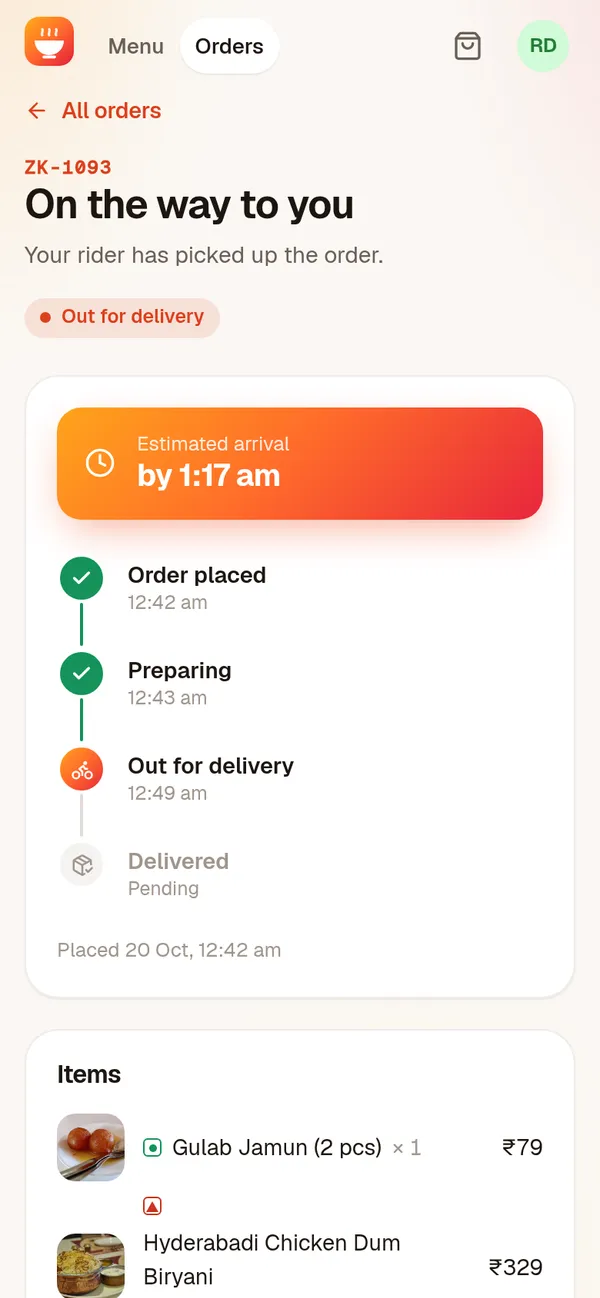
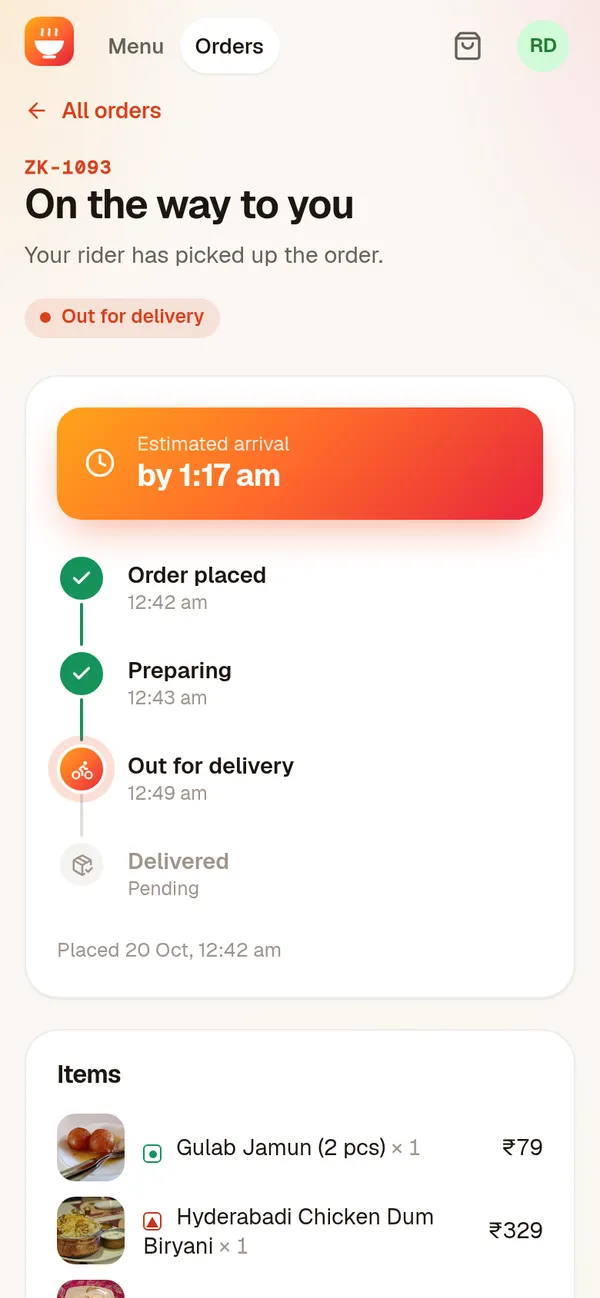
Write the Zaika 2.0 README with screenshots
Hero and gallery screenshots of the storefront, checkout, tracking,
dashboard, kitchen board, menu manager, customers, settings, phone
layouts and dark mode (WebP, in docs/screenshots). Covers what's new in
2.0, features, tech stack, project structure, setup with Neon,
configurable providers (uploads, Stripe, demo autopilot), demo data,
security, Vercel deployment and photo credits.

diff --git a/README.md b/README.md
@@ -1,28 +1,199 @@
-# Zaika
+# Zaika 2.0
 
-**Zaika** (ज़ायका, "taste") is a full-stack food delivery app: a customer storefront, a restaurant admin panel and a REST API on Neon Postgres.
+**Zaika** (ज़ायका, "taste") is a full-stack Indian food delivery app: a light, modern storefront with live order tracking, and a restaurant admin panel with a real-time kitchen board, all running on one Express API and Neon Postgres.
 
-> Work in progress: Zaika 2.0 is being rebuilt as a single React app with a new design. The API is done; the screens follow.
+![Zaika storefront](docs/screenshots/storefront.webp)
 
-## Stack
+| Kitchen dashboard | Live kitchen board |
+|---|---|
+| ![Dashboard](docs/screenshots/dashboard.webp) | ![Kitchen board](docs/screenshots/kitchen-board.webp) |
+
+## What's new in 2.0
+
+- **One app, one command.** The separate customer site, admin site and API are now a single React 19 + Express 5 project. `npm run dev` serves everything on one port; Vercel serves it as a static site plus one serverless function.
+- **Neon Postgres instead of MongoDB.** A cloud database you never have to start, with versioned SQL migrations.
+- **A brand-new design.** Light-first 2026 look with Geist type, a saffron-to-chilli gradient, frosted glass and a warm aurora. Dark mode is an optional toggle.
+- **Live order tracking.** Every status change is timestamped and the order page updates itself.
+- **A real restaurant console.** Dashboard with KPIs and charts, a Kanban kitchen board with chimes for new orders, menu, customers and store settings.
+- **Security fixes.** The original API let anyone add or delete dishes and change any order, trusted prices sent by the browser, and marked Stripe orders paid from a URL flag. All fixed (see [Security](#security)).
+- **Demo data** with 36 Indian dishes and real photos, plus a read-only demo admin for portfolio visitors.
+
+## Features
+
+### For customers
+- Menu grouped by category (biryani, North and South Indian, street food, rolls, Indo-Chinese, desserts, drinks) with search (press `/`), a veg-only switch and sorting
+- Indian veg / non-veg marks on every dish, **Bestseller** badges calculated from real orders in the last 30 days, sold-out states
+- Dish quick-view, quantity steppers, and a floating cart bar with a free-delivery nudge
+- Guest cart that is kept and merged into your account when you sign in
+- Checkout with a saved address, inline validation (phone, 6-digit PIN code), a note for the kitchen, and cash on delivery or card (Stripe, when configured)
+- Order page with estimated arrival, a step-by-step timeline with real times, and automatic refresh
+- Order history with cancel (until the kitchen starts cooking) and one-tap reorder
+- Account page for profile, default address and theme
+
+### For the restaurant (`/admin`)
+- **Dashboard:** revenue, orders, average order value and active orders, compared with the previous 24 hours / 7 / 30 days; a 14-day revenue chart with tooltips; live orders; top dishes; orders by status
+- **Kitchen board:** New → In the kitchen → On the way, one-click advance, wait-time warnings, a chime and toast for every new order, searchable history
+- **Order drawer:** customer details with tap-to-call, address, note, bill, payment state and timeline; cancel with confirmation
+- **Menu manager:** add and edit dishes with drag-and-drop photo upload and a live card preview, instant sold-out switch, delete with confirmation
+- **Customers:** lifetime spend ranking, repeat-customer rate, top customer
+- **Store settings:** open or close the kitchen (closes checkout and shows a banner), delivery fee, free-delivery threshold and delivery time
+
+### Under the hood
+- Skeleton loaders, empty and error states, toasts, disabled and loading buttons everywhere
+- Responsive from 390px phones to wide desktops, keyboard focus styles, aria labels, `prefers-reduced-motion`
+- Optimistic cart and stock toggles with rollback; late server replies can't overwrite newer clicks
+- Database connection retries for flaky networks
+
+## Screenshots
+
+| | |
+|---|---|
+| ![Sign in](docs/screenshots/login.webp) | ![Menu](docs/screenshots/menu.webp) |
+| ![Dish quick view](docs/screenshots/dish.webp) | ![Cart](docs/screenshots/cart.webp) |
+| ![My orders](docs/screenshots/orders.webp) | ![Order drawer](docs/screenshots/order-drawer.webp) |
+| ![Menu manager](docs/screenshots/menu-manager.webp) | ![Dish editor](docs/screenshots/dish-editor.webp) |
+| ![Customers](docs/screenshots/customers.webp) | ![Store settings](docs/screenshots/settings.webp) |
+
+| Phone | Order tracking | Dark mode |
+|---|---|---|
+| ![Mobile storefront](docs/screenshots/mobile-home.webp) | ![Mobile tracking](docs/screenshots/mobile-tracking.webp) | ![Dark dashboard](docs/screenshots/dark-dashboard.webp) |
+
+## Tech stack
 
 | Layer | Tech |
 |---|---|
+| Frontend | React 19, React Router 7, Vite 8, lucide-react icons, Sonner toasts |
+| Styling | Plain CSS with design tokens (no UI framework), Geist font |
 | API | Node.js, Express 5, JWT auth, bcryptjs |
-| Database | Neon serverless Postgres, plain SQL migrations |
-| Payments | Cash on delivery, optional Stripe Checkout |
+| Database | Neon serverless Postgres (`@neondatabase/serverless`), SQL migrations |
+| Images | Cloudinary unsigned uploads or image links |
+| Payments | Cash on delivery; optional Stripe Checkout |
+| Hosting | Vercel (static site + one serverless function) |
+
+## Project structure
+
+```
+zaika/
+├── api/index.js            # Vercel function: serves the Express app
+├── server/
+│   ├── app.js              # Express app and error handling
+│   ├── db.js               # Neon client, connection retries
+│   ├── migrate.js          # Runs migrations/*.sql in order
+│   ├── migrations/         # 001_init.sql: users, foods, carts, orders, events, settings
+│   ├── lib/                # auth & roles, validation, orders, store settings, demo autopilot
+│   └── routes/             # auth, foods, cart, orders, admin, settings
+├── shared/menu.js          # Categories and order statuses (used by API and UI)
+├── scripts/
+│   ├── migrate.mjs         # npm run migrate
+│   ├── seed.mjs            # npm run seed
+│   └── seed-data.mjs       # The demo menu
+├── public/dishes/          # Demo dish photos (WebP) + CREDITS.md
+├── src/
+│   ├── index.css           # Design tokens and primitives
+│   ├── lib/                # api client, theme, formatting, uploads, categories
+│   ├── context/            # AuthContext, StoreContext (menu, settings, cart)
+│   ├── components/         # ui/ (Logo, Avatar, Modal, Drawer, …), food/, orders/, layout/
+│   └── pages/              # Home, Auth, Cart, Checkout, Orders, Account, Admin/*
+├── vite.config.js          # Mounts the API inside the dev server
+└── vercel.json             # /api/* → function, everything else → SPA
+```
 
 ## Getting started
+
+### Prerequisites
+- Node.js 20.19 or newer
+- A free [Neon](https://neon.tech) Postgres database (no credit card). Nothing runs locally besides Node.
+
+### 1. Clone and install
 
 ```bash
 git clone https://github.com/Yusuf-Hussain25/zaika.git
 cd zaika
 npm install
-cp .env.example .env      # add DATABASE_URL and JWT_SECRET
-npm run migrate           # creates the tables
-npm run api               # http://localhost:4000/api/health
 ```
+
+### 2. Configure `.env`
+
+```bash
+cp .env.example .env
+```
+
+| Variable | Where to find it |
+|---|---|
+| `DATABASE_URL` | Neon console → your project → **Connect** → copy the pooled `postgresql://…` string |
+| `JWT_SECRET` | Any long random string: `node -e "console.log(require('crypto').randomBytes(32).toString('hex'))"` |
+| `VITE_DEMO_*`, `SEED_PASSWORD` | Passwords you choose for the demo accounts the seeder creates |
+| `VITE_CLOUDINARY_*` | Optional, see [Configurable providers](#configurable-providers) |
+| `STRIPE_SECRET_KEY` | Optional, Stripe → Developers → API keys (test mode) |
+
+`.env` is git-ignored. Only `VITE_` variables reach the browser; the database URL, JWT secret and Stripe key stay on the server.
+
+### 3. Create the tables and demo data
+
+```bash
+npm run migrate   # creates the tables (safe to re-run)
+npm run seed      # menu, demo accounts and two weeks of orders
+```
+
+### 4. Run
+
+```bash
+npm run dev       # site + API on http://localhost:5173
+```
+
+Other scripts: `npm run build`, `npm run preview` (production build with the API), `npm run lint`, `npm run api` (API alone on port 4000).
+
+## Configurable providers
+
+| Setting | Options |
+|---|---|
+| `VITE_UPLOAD_PROVIDER` | `cloudinary`: admins upload photos straight from the browser to an **unsigned** preset (no API secret in the browser). `url`: admins paste an image link. Without Cloudinary settings the app falls back to `url`. |
+| `STRIPE_SECRET_KEY` | Empty: cash on delivery only, and the card option is shown as unavailable. Set: card payments through Stripe Checkout, verified on the server, with automatic refunds when a paid order is cancelled. |
+| `DEMO_AUTOPILOT` | `true`: orders from `@zaika-demo.dev` customers move through the kitchen on a timer (2 min placed, 6 min preparing, 8 min on the way) and seeded customers place a new order now and then, so a public demo always looks alive. Real customers' orders are never touched. |
+
+**Cloudinary preset:** Cloudinary console → Settings (gear) → Upload → Upload presets → **Add upload preset** → name `zaika_unsigned`, Signing mode **Unsigned**, Asset folder `zaika` → Save.
+
+## Demo data
+
+`npm run seed` creates, all on the `@zaika-demo.dev` domain:
+
+| Account | Role | Password |
+|---|---|---|
+| `admin@zaika-demo.dev` | Admin (full access) | `SEED_PASSWORD` |
+| `VITE_DEMO_ADMIN_EMAIL` | Demo admin: sees the whole panel, every change is rejected by the API, real customers' contact details are masked | `VITE_DEMO_ADMIN_PASSWORD` |
+| `VITE_DEMO_EMAIL` | Demo customer with live orders and a few treats in the cart | `VITE_DEMO_PASSWORD` |
+| 12 customers | Customers with addresses in Bengaluru, Mumbai, Hyderabad, Delhi and Pune | `SEED_PASSWORD` |
+
+It also adds 36 dishes and about 80 orders over the last 14 days at lunch and dinner times, in every status. When the demo variables are set, the sign-in page shows **Explore with a demo account** and **Explore the admin panel (read-only)**.
+
+The seeder goes through the real API (same validation, prices and permissions); SQL is used only to grant the admin roles and backdate timestamps. Re-running it reuses accounts and dishes and only tops up orders. To give your own account some orders:
+
+```bash
+npm run seed -- --with you@example.com
+```
+
+## Security
+
+- Passwords are hashed with bcrypt; sessions are signed JWTs, and the user's role is re-read from the database on every request
+- Dish, order-status and settings changes require the `admin` role; the `demo_admin` role can read the admin panel but every write returns 403
+- Order totals and delivery fees are computed on the server from database prices; the browser only sends the address and payment method
+- Customers can only see, cancel and reorder their own orders
+- Stripe payments are confirmed by retrieving the Checkout session from Stripe, never from a URL flag
+- Cash-on-delivery orders are marked paid only when delivered
+- Inputs are validated server-side (emails, phone numbers, PIN codes, categories, prices, image URLs); request bodies are capped at 100 KB
+
+## Deployment (Vercel)
+
+1. Push the repo to GitHub and **Import** it in Vercel (framework preset: Vite).
+2. Add the environment variables from `.env` in **Settings → Environment Variables** (`DATABASE_URL`, `JWT_SECRET`, the `VITE_` values, and optionally `STRIPE_SECRET_KEY`, `APP_URL`, `DEMO_AUTOPILOT`). If your Neon database was created from Vercel's Storage tab, connecting it to the project adds `DATABASE_URL` for you.
+3. Deploy. `vercel.json` sends `/api/*` to the Express function in `api/index.js` and every other path to the React app.
+4. Run `npm run migrate` and `npm run seed` locally against the same `DATABASE_URL` (once).
+
+## Credits
+
+- Demo dish photos: [Wikimedia Commons](https://commons.wikimedia.org) contributors under their free licences, listed in [`public/dishes/CREDITS.md`](public/dishes/CREDITS.md)
+- Started from a MERN food-delivery tutorial project, then rebuilt as Zaika 2.0
 
 ## Author
 
-Yusuf Hussain · https://github.com/Yusuf-Hussain25
+**Yusuf Hussain** · [github.com/Yusuf-Hussain25](https://github.com/Yusuf-Hussain25)
